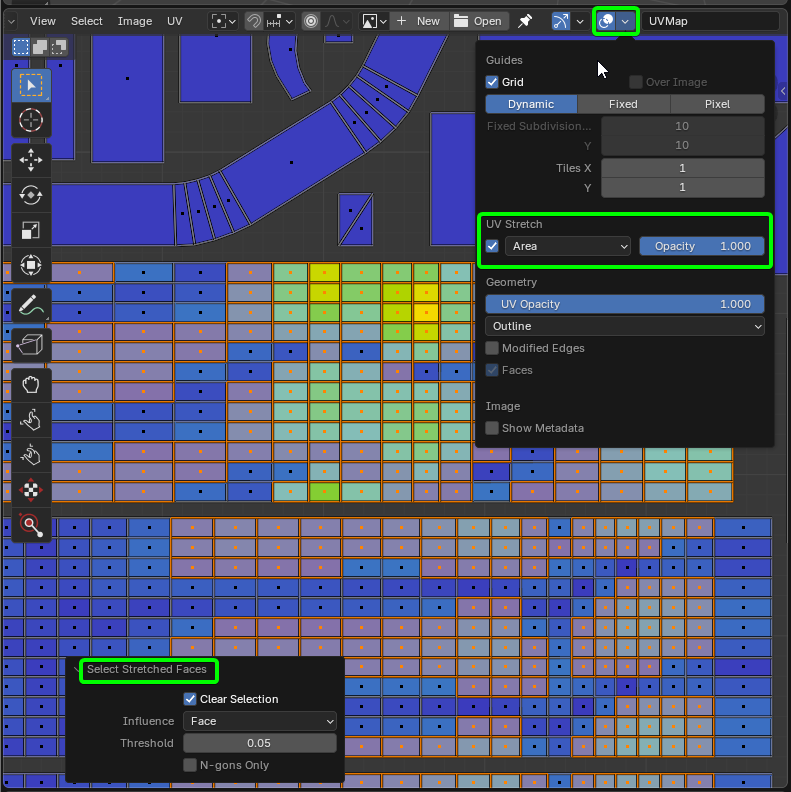
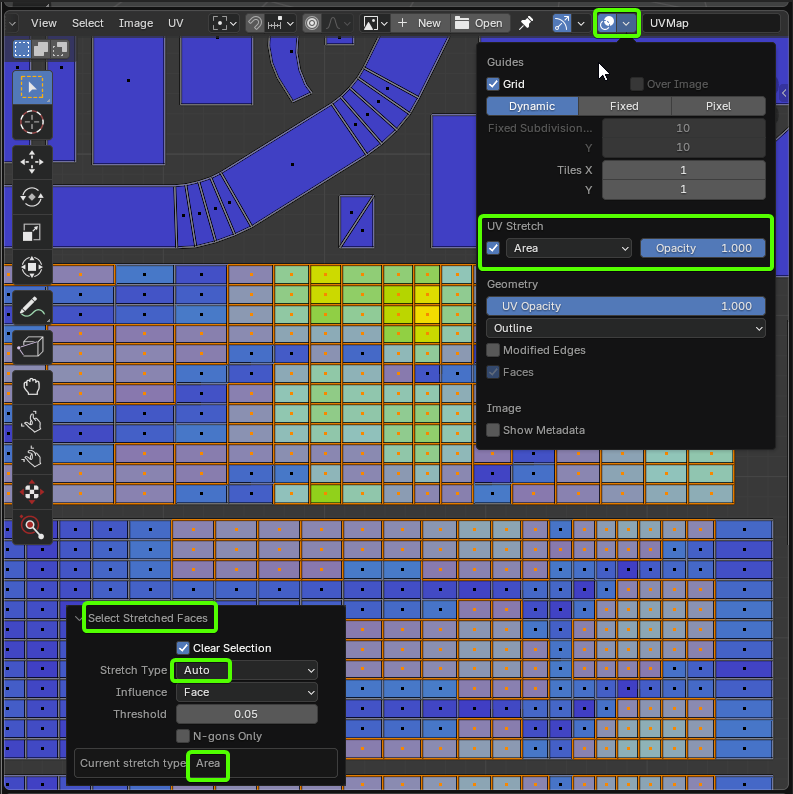
upd Select Stretched Faces

Changed region(s): [[0.0, 0.0, 1.0, 1.0], [0.3338, 0.2424, 0.3944, 0.2727], [0.3944, 0.2121, 0.4248, 0.2424]]

diff --git a/mkdocs/select.md b/mkdocs/select.md
@@ -8,7 +8,9 @@
 ---
 ## Table of contents
 
-- [<u>**Islands**</u>](#islands)
+- [Select](#select)
+  - [Table of contents](#table-of-contents)
+  - [Islands](#islands)
     - [Select Islands](#select-islands)
     - [Select Overlapped](#select-overlapped)
     - [Select Flipped](#select-flipped)
@@ -18,8 +20,7 @@
     - [Select in Tile](#select-in-tile)
     - [Select Islands By Direction](#select-islands-by-direction)
     - [Filter Islands by Property](#filter-islands-by-property)
-
-- [<u>**Faces**</u>](#faces)
+  - [Faces](#faces)
     - [Select Stretched Faces](#select-stretched-faces)
     - [Select Self-Intersecting Faces](#select-self-intersecting-faces)
     - [Select by UV Value](#select-by-uv-value)
@@ -28,9 +29,8 @@
     - [Select Faces Less than Pixel](#select-faces-less-than-pixel)
     - [Select Faces By Normal](#select-faces-by-normal)
     - [Select Cylinder Faces](#select-cylinder-faces)
-    - [Select Cylinder Cap](#select-cylinder-cap)        
-
-- [<u>**Edges**</u>](#edges)
+    - [Select Cylinder Cap](#select-cylinder-cap)
+  - [Edges](#edges)
     - [Select Seam](#select-seam)
     - [Select Sharp](#select-sharp)
     - [Select UV Borders](#select-uv-borders)
@@ -39,12 +39,10 @@
     - [Select Edges by Condition](#select-edges-by-condition)
     - [Select Edges By Direction](#select-edges-by-direction)
     - [Select Material Boundary Edges](#select-material-boundary-edges)
-
-- [<u>**Loops**</u>](#loops)
+  - [Loops](#loops)
     - [Zen Sync](#zen-sync)
     - [Select Linked Loops](#select-linked-loops)
-
-- [<u>**Misc**</u>](#misc)
+  - [Misc](#misc)
     - [Select Int. Loop](#select-int-loop)
     - [Select Half](#select-half)
     - [Isolate Islands (Toggle)](#isolate-islands-toggle)
@@ -199,25 +197,27 @@ Filters islands based on specific properties.
 
 ### Select Stretched Faces
 
-Selects faces with stretched UV coordinates
+Selects mesh faces or whole islands based on UV distortion metrics.
 
-Checks each polygon area and compares it with the corresponding area in UV space.  
-If the area exceeds the specified threshold, the polygon will be selected.
+The operator evaluates each polygon by comparing its 3D mesh properties (area or interior angles) against its corresponding layout in UV space. If the distortion exceeds the defined threshold, the affected elements are immediately selected, allowing you to quickly isolate problematic areas for relaxed unwrap, pin adjustments, or seamless cuts.
 
-!!! Tip  
-    This operator works using the **Overlay → UV Stretch → Area** algorithm.  
-    This means you can easily select what you see or what you might have missed.  
+!!! Tip
+    This operator seamlessly integrates with Blender's native display modes (**Overlay → UV Stretch → Area / Angle**). This means you can visually identify distorted regions directly in the UV Editor viewport and instantly select exactly what you see.
     ![Select Stretched Faces Display](img/screen/select/select_stretched_faces_display.png)
 
 !!! Properties
     ![Select Stretched Faces](img/screen/select/select_stretched_faces_op_prop.png)
 
-- **Influence** - Defines the selection target.
-    - *Face* - Selects individual stretched faces.
-    - *Island* - Selects entire islands containing stretched faces.
-- **Clear Selection** - Clears the initial selection before applying the operation.
-- **Threshold** - Defines the minimum stretch factor required for a face to be selected.
-- **N-gons Only** - Selects only n-gons (faces with more than four edges).
+- **Clear Selection** — Deselects all currently selected elements before performing the operation.
+- **Stretch Type** — Algorithm used to calculate UV distortion:
+    - *Auto* — Automatically uses the current mode active in Blender's UV Overlay settings.
+    - *Angle* — Evaluates distortion based on angular deviations between 3D space and UV space.
+    - *Area* — Evaluates distortion based on relative surface area differences between 3D faces and UV faces.
+- **Influence** — Selection scope target:
+    - *Face* — Selects only the specific individual faces exceeding the threshold.
+    - *Island* — Selects entire UV islands containing any stretched faces.
+- **Threshold** — Minimum distortion value required to trigger selection.
+- **N-gons Only** — Limits the selection exclusively to n-gons (polygons with more than 4 vertices).
 
 ---
 ### Select Self-Intersecting Faces
